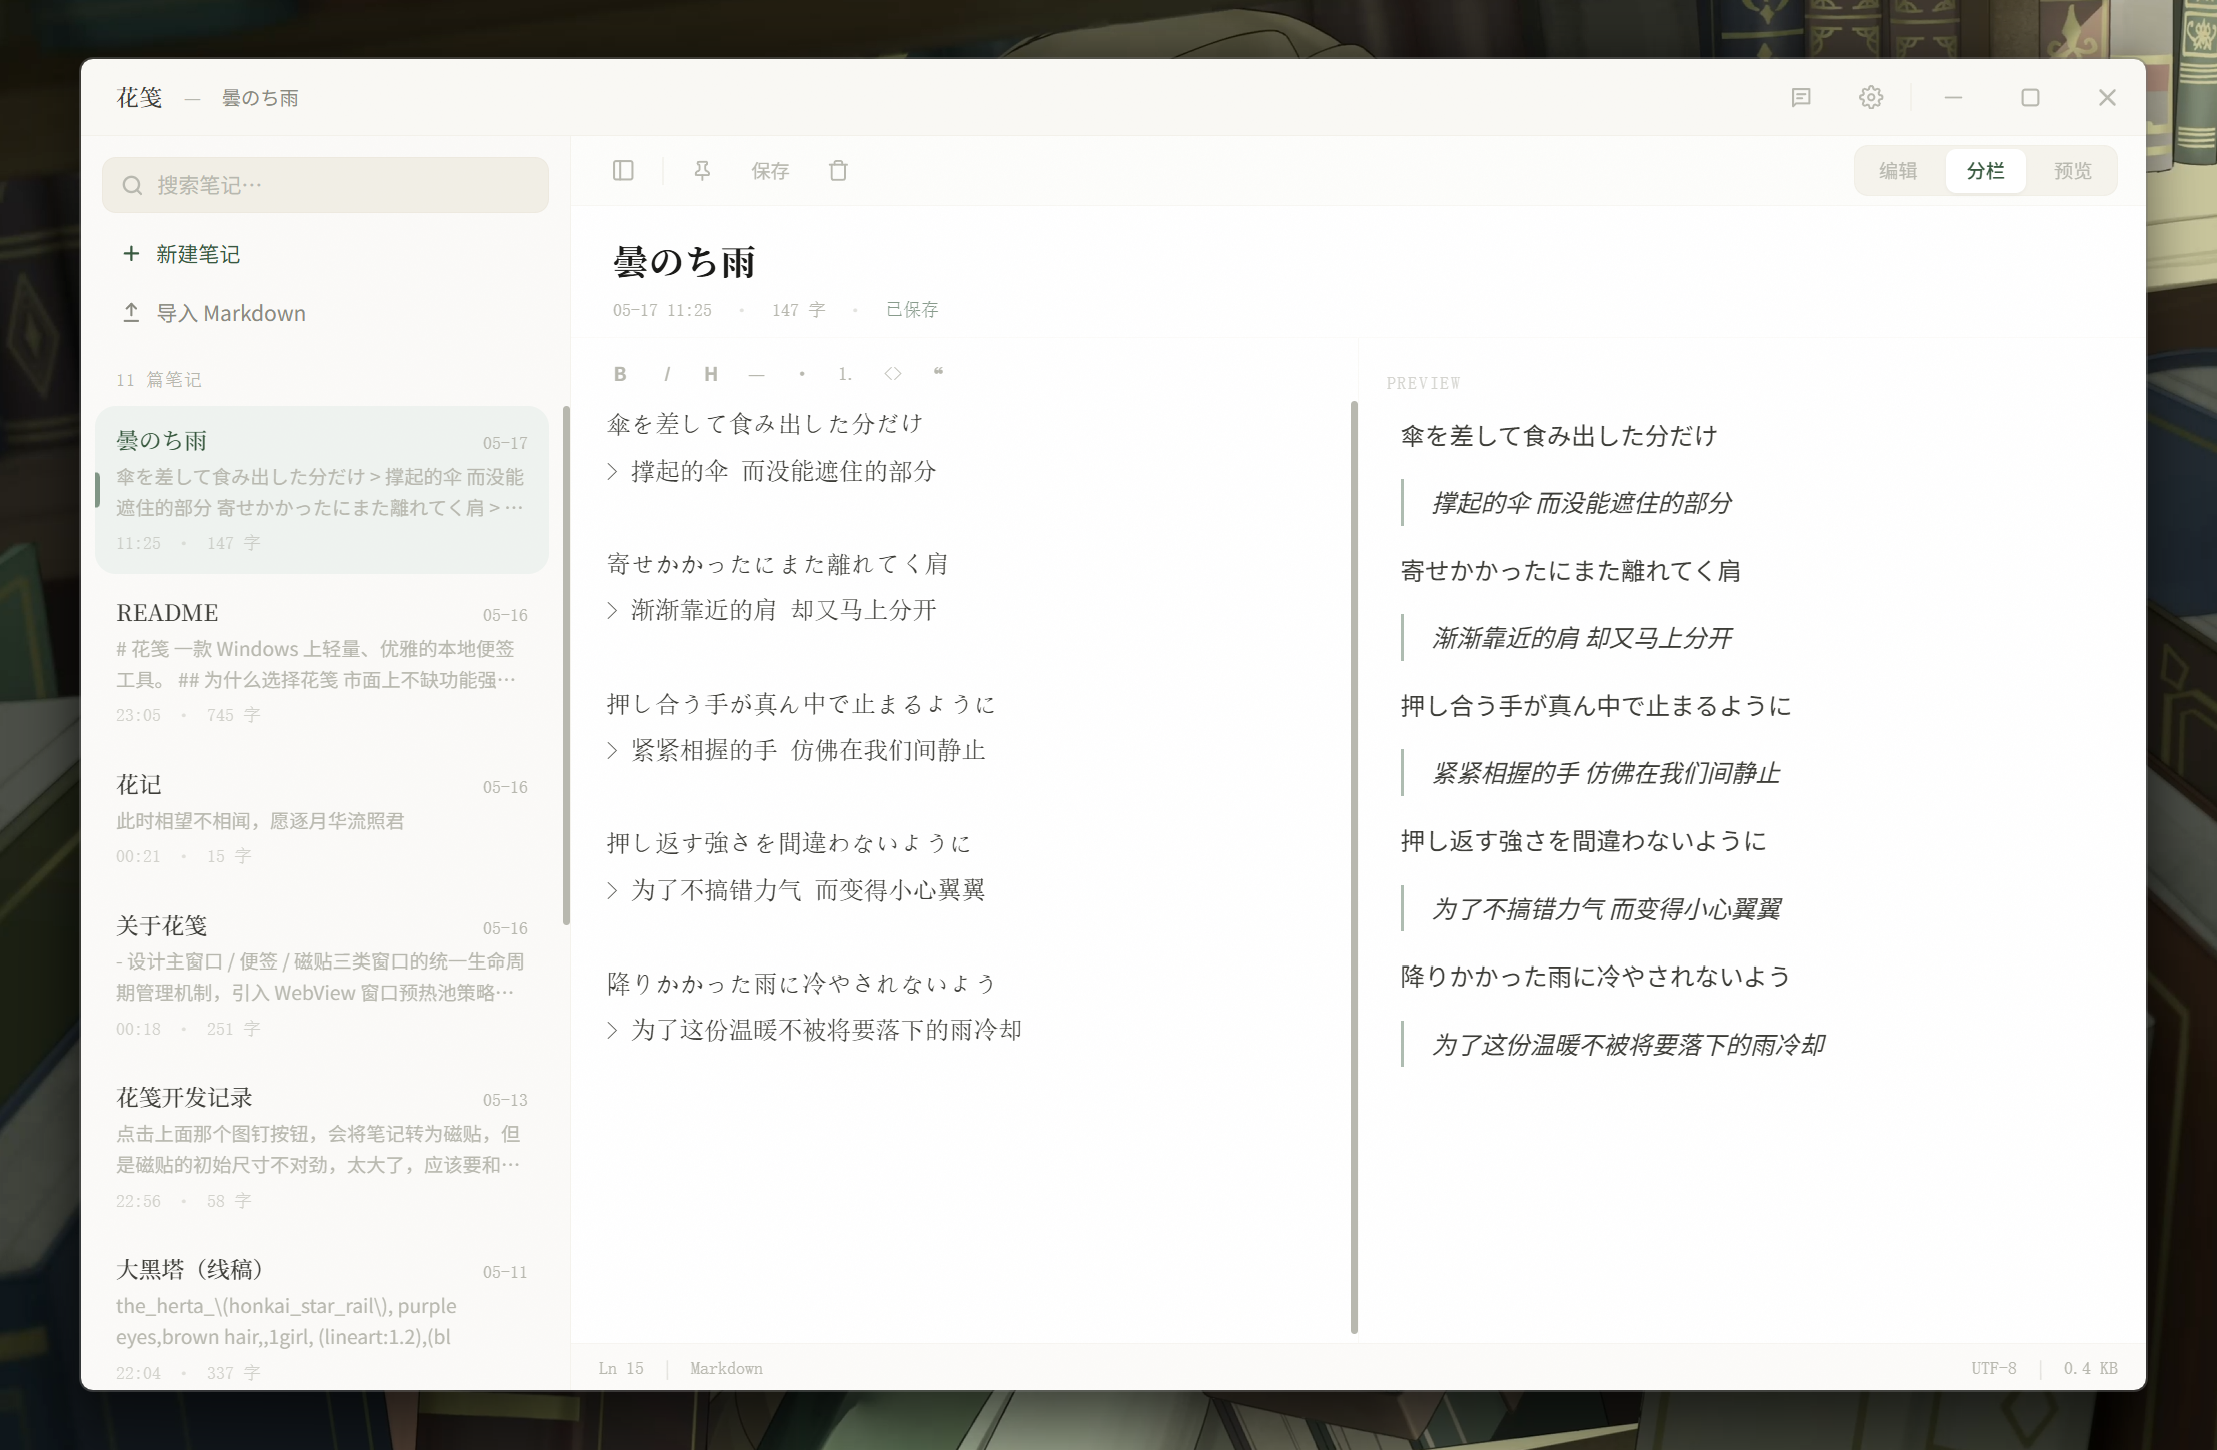
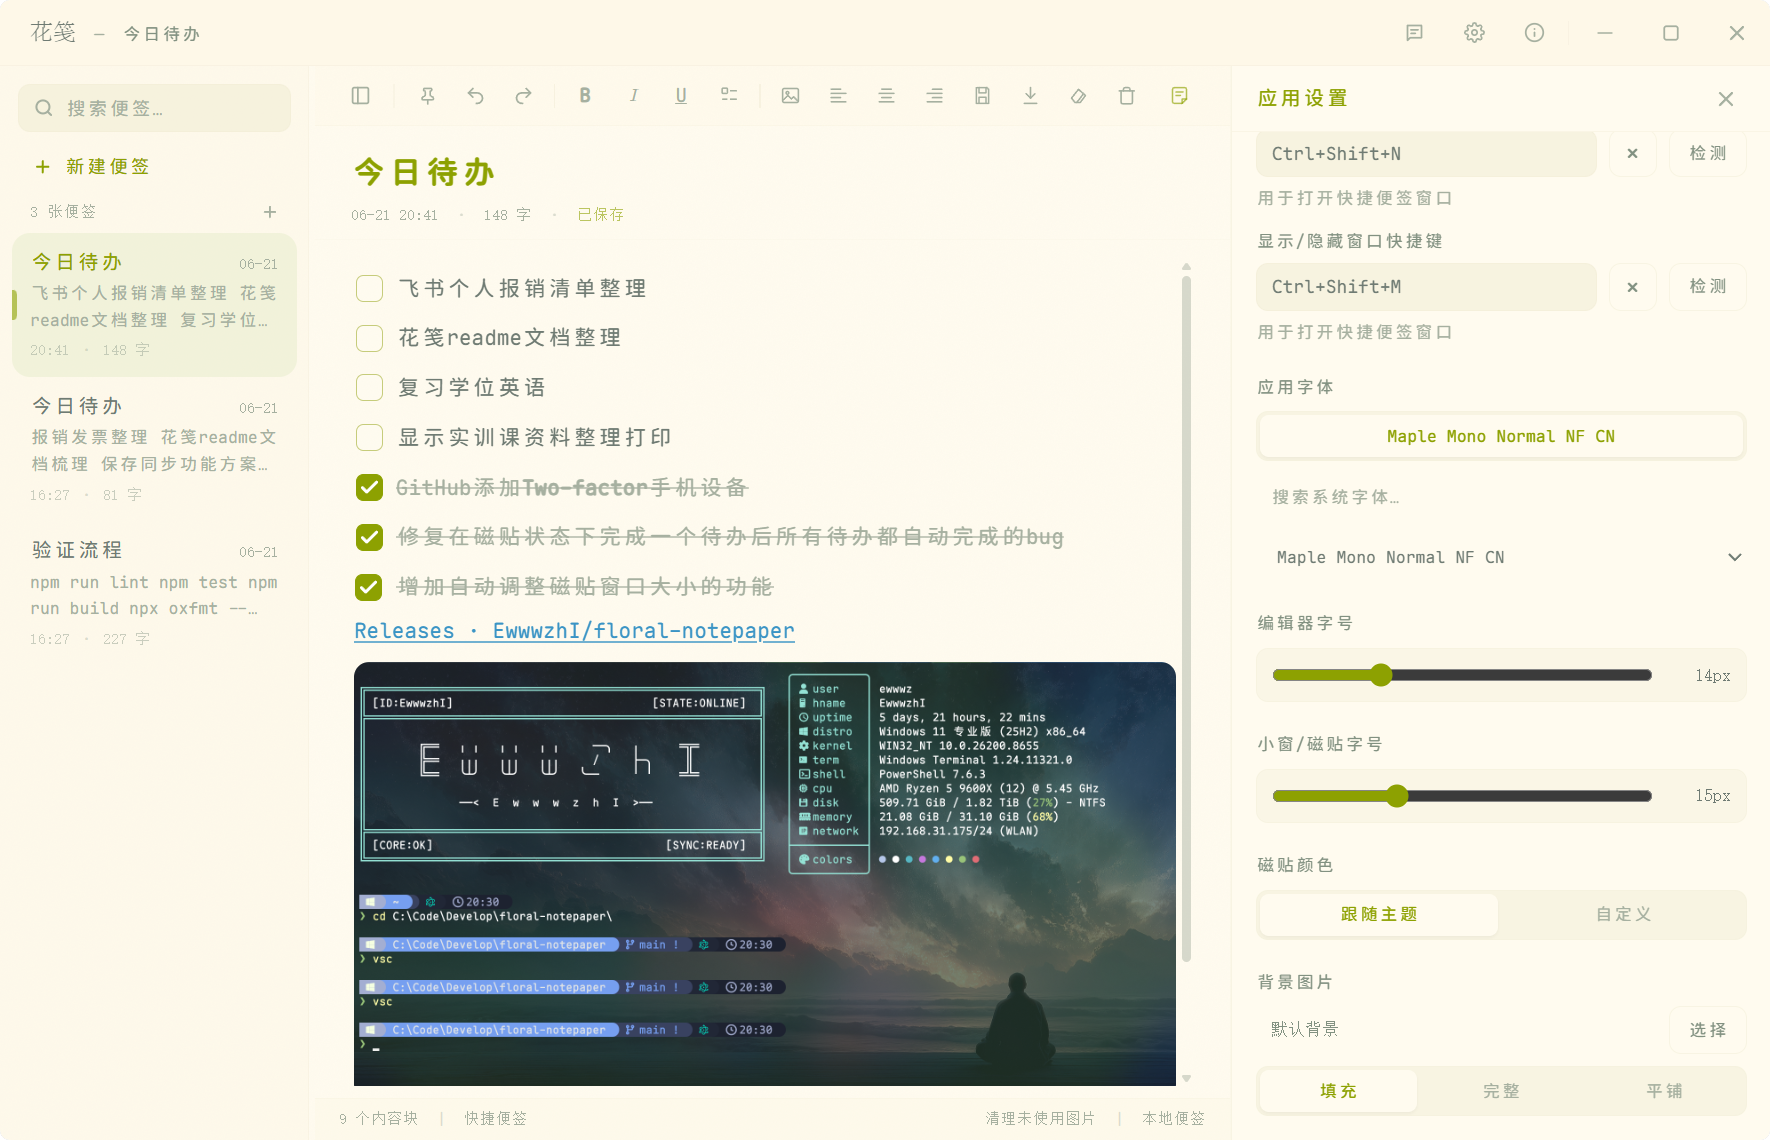
背景图片优化

diff --git a/src/components/SettingsPanel.test.tsx b/src/components/SettingsPanel.test.tsx
@@ -1,0 +1,75 @@
+// @vitest-environment jsdom
+
+import { renderToStaticMarkup } from "react-dom/server";
+import { describe, expect, test, vi } from "vitest";
+import type { AppConfig } from "../features/settings/types";
+import { SettingsPanel } from "./SettingsPanel";
+
+vi.mock("../features/settings/api", () => ({
+  checkGlobalShortcut: vi.fn(),
+  chooseBackgroundImage: vi.fn(),
+  listSystemFonts: vi.fn(() => Promise.resolve([])),
+}));
+
+function testConfig(backgroundImagePath = "C:\\data\\backgrounds\\background.png"): AppConfig {
+  return {
+    locale: "zh-CN",
+    dataDir: "C:\\data",
+    globalShortcut: "Ctrl+Shift+N",
+    closeToTray: true,
+    autostart: false,
+    defaultViewMode: "split",
+    noteAutoSave: true,
+    noteSurfaceAutoSave: true,
+    tileColor: "#fdf6e3",
+    tileColorMode: "system",
+    theme: "system",
+    fontSize: 14,
+    surfaceFontSize: 14,
+    noteFontFamily: "system",
+    tabIndentSize: 2,
+    externalFileAutoSave: true,
+    rememberSurfaceSize: true,
+    tileCtrlClose: true,
+    tileRenderMarkdown: false,
+    renderHtmlMarkdown: false,
+    splitScrollSync: true,
+    toggleVisibilityShortcut: "Ctrl+Shift+M",
+    openAtCursor: true,
+    backgroundImagePath,
+    backgroundFit: "cover",
+    backgroundDim: 0.25,
+    backgroundBlur: 6,
+  };
+}
+
+function renderSettings(config: AppConfig): string {
+  return renderToStaticMarkup(
+    <SettingsPanel
+      config={config}
+      onChange={vi.fn()}
+      onMigrateDataDir={vi.fn()}
+      onClose={vi.fn()}
+    />,
+  );
+}
+
+describe("SettingsPanel background controls", () => {
+  test("shows remove, transparency, and blur controls for a selected background", () => {
+    const markup = renderSettings(testConfig());
+
+    expect(markup).toContain("移除");
+    expect(markup).toContain("透明度");
+    expect(markup).toContain("25%");
+    expect(markup).toContain("模糊度");
+    expect(markup).toContain("6px");
+  });
+
+  test("hides background adjustments when no image is selected", () => {
+    const markup = renderSettings(testConfig(""));
+
+    expect(markup).not.toContain("移除");
+    expect(markup).not.toContain("透明度");
+    expect(markup).not.toContain("模糊度");
+  });
+});

diff --git a/src/components/SettingsPanel.tsx b/src/components/SettingsPanel.tsx
@@ -7,6 +7,11 @@ import {
   listSystemFonts,
 } from "../features/settings/api";
 import {
+  backgroundDimFromTransparency,
+  backgroundTransparencyPercent,
+  normalizeBackgroundBlur,
+} from "../features/settings/background";
+import {
   formatHeldKeys,
   hotkeyToConfigString,
   isValidGlobalShortcut,
@@ -314,12 +319,48 @@ export function SettingsPanel({ config, onChange, onMigrateDataDir, onClose }: S
             >
               {t("settings.background.choose", { defaultValue: "选择" })}
             </button>
+            {config.backgroundImagePath && (
+              <button
+                type="button"
+                onClick={() => {
+                  localStorage.removeItem("backgroundImageName");
+                  setConfigValue("backgroundImagePath", "");
+                }}
+                className="h-8 px-3 rounded-lg border border-paper-deep/45 text-[11px] text-ink-faint hover:text-red-400 hover:bg-danger-bg/70 transition-colors cursor-pointer"
+              >
+                {t("settings.background.clear", { defaultValue: "移除" })}
+              </button>
+            )}
           </div>
-          <SlidingButtonGroup
-            options={backgroundFits}
-            value={config.backgroundFit ?? "cover"}
-            onChange={(value: BackgroundFit) => setConfigValue("backgroundFit", value)}
-          />
+          {config.backgroundImagePath && (
+            <>
+              <SlidingButtonGroup
+                options={backgroundFits}
+                value={config.backgroundFit ?? "cover"}
+                onChange={(value: BackgroundFit) => setConfigValue("backgroundFit", value)}
+              />
+              <BackgroundRangeRow
+                label={t("settings.background.dim", { defaultValue: "透明度" })}
+                value={backgroundTransparencyPercent(config.backgroundDim)}
+                min={0}
+                max={100}
+                step={1}
+                format={(value) => `${value}%`}
+                onChange={(value) =>
+                  setConfigValue("backgroundDim", backgroundDimFromTransparency(value))
+                }
+              />
+              <BackgroundRangeRow
+                label={t("settings.background.blur", { defaultValue: "模糊度" })}
+                value={normalizeBackgroundBlur(config.backgroundBlur)}
+                min={0}
+                max={20}
+                step={1}
+                format={(value) => `${value}px`}
+                onChange={(value) => setConfigValue("backgroundBlur", value)}
+              />
+            </>
+          )}
         </SettingGroup>
       </div>
     </aside>
@@ -397,6 +438,26 @@ function RangeRow({
       <span className="w-10 text-right text-[11px] font-mono text-ink-soft tabular-nums">
         {format(value)}
       </span>
+    </div>
+  );
+}
+
+function BackgroundRangeRow({
+  label,
+  ...rangeProps
+}: {
+  label: string;
+  value: number;
+  min: number;
+  max: number;
+  step: number;
+  format: (value: number) => string;
+  onChange: (value: number) => void;
+}) {
+  return (
+    <div className="space-y-1.5">
+      <label className="block text-[11px] text-ink-faint">{label}</label>
+      <RangeRow {...rangeProps} />
     </div>
   );
 }

diff --git a/src/features/settings/background.test.ts b/src/features/settings/background.test.ts
@@ -1,0 +1,26 @@
+import { describe, expect, test } from "vitest";
+import {
+  backgroundDimFromTransparency,
+  backgroundTransparencyPercent,
+  normalizeBackgroundBlur,
+} from "./background";
+
+describe("background settings", () => {
+  test("maps the persisted dim value to a transparency percentage", () => {
+    expect(backgroundTransparencyPercent()).toBe(25);
+    expect(backgroundTransparencyPercent(0.6)).toBe(60);
+    expect(backgroundTransparencyPercent(2)).toBe(100);
+  });
+
+  test("maps the transparency slider back to a persisted dim value", () => {
+    expect(backgroundDimFromTransparency(35)).toBe(0.35);
+    expect(backgroundDimFromTransparency(-10)).toBe(0);
+    expect(backgroundDimFromTransparency(120)).toBe(1);
+  });
+
+  test("keeps background blur within the supported range", () => {
+    expect(normalizeBackgroundBlur()).toBe(0);
+    expect(normalizeBackgroundBlur(8)).toBe(8);
+    expect(normalizeBackgroundBlur(30)).toBe(20);
+  });
+});

diff --git a/src/features/settings/background.ts b/src/features/settings/background.ts
@@ -1,0 +1,20 @@
+const DEFAULT_BACKGROUND_DIM = 0.25;
+const MAX_BACKGROUND_BLUR = 20;
+
+function clamp(value: number, min: number, max: number): number {
+  return Math.min(max, Math.max(min, value));
+}
+
+export function backgroundTransparencyPercent(value?: number): number {
+  const dim = Number.isFinite(value) ? (value as number) : DEFAULT_BACKGROUND_DIM;
+  return Math.round(clamp(dim, 0, 1) * 100);
+}
+
+export function backgroundDimFromTransparency(value: number): number {
+  return clamp(value, 0, 100) / 100;
+}
+
+export function normalizeBackgroundBlur(value?: number): number {
+  const blur = Number.isFinite(value) ? (value as number) : 0;
+  return clamp(blur, 0, MAX_BACKGROUND_BLUR);
+}

diff --git a/src/components/BackgroundLayer.tsx b/src/components/BackgroundLayer.tsx
@@ -1,5 +1,6 @@
 import { convertFileSrc } from "@tauri-apps/api/core";
 import { useMemo } from "react";
+import { normalizeBackgroundBlur } from "../features/settings/background";
 import type { AppConfig } from "../features/settings/types";
 
 interface BackgroundLayerProps {
@@ -14,7 +15,7 @@ export function BackgroundLayer({ config }: BackgroundLayerProps) {
 
   const fit = config?.backgroundFit ?? "cover";
   const dim = Math.max(0, Math.min(1, config?.backgroundDim ?? 0.25));
-  const blur = Math.max(0, Math.min(20, config?.backgroundBlur ?? 0));
+  const blur = normalizeBackgroundBlur(config?.backgroundBlur);
   const scale = Math.max(0.5, Math.min(2, config?.backgroundScale ?? 1));
   const positionX = Math.max(0, Math.min(100, config?.backgroundPositionX ?? 50));
   const positionY = Math.max(0, Math.min(100, config?.backgroundPositionY ?? 50));

diff --git a/src-tauri/src/services/notes.rs b/src-tauri/src/services/notes.rs
@@ -674,6 +674,24 @@ impl NoteStore {
         Ok(config)
     }
 
+    pub fn remove_managed_background_file(&self, path: &str) {
+        let candidate = PathBuf::from(path.trim());
+        if !candidate.is_file() {
+            return;
+        }
+
+        let managed_dir = self.data_dir.join("backgrounds");
+        let (Ok(managed_dir), Ok(candidate)) =
+            (fs::canonicalize(managed_dir), fs::canonicalize(candidate))
+        else {
+            return;
+        };
+
+        if candidate.parent() == Some(managed_dir.as_path()) {
+            let _ = fs::remove_file(candidate);
+        }
+    }
+
     pub fn list_notes(&self) -> Result<Vec<NoteMetadata>, AppError> {
         self.ensure_storage()?;
         let mut metadata = self.load_metadata()?.notes;
@@ -2281,6 +2299,23 @@ mod tests {
         let loaded = store.load_config().expect("reload config");
         saved.data_dir = Some(store.data_dir().to_string_lossy().to_string());
         assert_eq!(loaded, saved);
+    }
+
+    #[test]
+    fn removes_only_background_files_managed_by_the_app() {
+        let store = test_store("managed-background");
+        let managed_dir = store.data_dir().join("backgrounds");
+        fs::create_dir_all(&managed_dir).expect("create backgrounds dir");
+        let managed = managed_dir.join("background.png");
+        let external = store.data_dir().join("external.png");
+        fs::write(&managed, b"managed").expect("write managed background");
+        fs::write(&external, b"external").expect("write external background");
+
+        store.remove_managed_background_file(managed.to_string_lossy().as_ref());
+        store.remove_managed_background_file(external.to_string_lossy().as_ref());
+
+        assert!(!managed.exists());
+        assert!(external.exists());
     }
 
     #[test]

diff --git a/src-tauri/src/lib.rs b/src-tauri/src/lib.rs
@@ -373,14 +373,6 @@ fn copy_background_image(_app: AppHandle, source_path: String) -> Result<String,
     let dir = store.data_dir().join("backgrounds");
     fs::create_dir_all(&dir)?;
 
-    let old_config = store.load_config()?;
-    if !old_config.background_image_path.is_empty() {
-        let old_path = PathBuf::from(&old_config.background_image_path);
-        if old_path.starts_with(&dir) && old_path.is_file() {
-            let _ = fs::remove_file(&old_path);
-        }
-    }
-
     let ext = source
         .extension()
         .and_then(|value| value.to_str())
@@ -411,6 +403,9 @@ fn config_save(app: AppHandle, config: AppConfig) -> Result<AppConfig, AppError>
         }
     })?;
     let saved = store.save_config(config)?;
+    if previous.background_image_path != saved.background_image_path {
+        store.remove_managed_background_file(&previous.background_image_path);
+    }
     if let Err(error) = desktop::refresh_shell_state(&app, &saved) {
         eprintln!("failed to refresh desktop shell state: {error}");
     }

diff --git a/README.md b/README.md
@@ -18,25 +18,34 @@
 
 <!-- markdownlint-restore -->
 
-## 功能
+## 便签编辑
 
-- 文字、待办、图片、加粗、斜体和下划线编辑
-- 快捷键唤出便签小窗，继续编辑已有便签
-- 磁贴置顶、非置顶切换、待办勾选与快速返回编辑
-- 自动识别网址、域名和邮箱链接
-- 导出 Markdown，并同步导出关联图片
-- Everforest 浅色、深色及跟随系统主题
-- 数据完全保存在本地
+- 支持文字、标题、待办事项和图片等内容。
+- 提供加粗、斜体、下划线、撤销与重做等常用编辑能力。
+- 支持图片粘贴、导入和对齐调整。
+- 自动识别网址、域名和邮箱地址，可直接打开对应链接。
+- 支持自动保存，并显示字数、内容块数量及保存状态。
 
 ![主窗口截图](Docs/images/主窗口截图.png)
 
-## 快捷便签与磁贴
+## 快捷便签与桌面磁贴
 
-通过托盘或全局快捷键（默认 `Ctrl+Shift+N`）打开快捷便签。
+- 可通过托盘或全局快捷键（默认 `Ctrl+Space`）快速打开独立便签小窗，支持多开。
+- 支持同时打开多个快捷便签，并可继续编辑已有内容。
+- 便签可转换为常驻桌面的磁贴，支持置顶切换、待办勾选和快速返回编辑。
+- 磁贴会根据内容自动调整高度，同时保留手动调整窗口大小的能力。
+- 支持记住小窗尺寸，以及在鼠标所在位置附近打开快捷便签。
 
-![小窗多开示例](Docs/images/小窗多开示例.gif)
+![小窗口多开示例](Docs/images/小窗口多开示例.png)
 
-![磁贴示例](Docs/images/AI绘画截图.png)
+## 外观与个性化
+
+- 提供 Everforest 浅色、深色和跟随系统三种主题模式。
+- 支持选择系统字体，并分别调整主编辑器和快捷便签字号。
+- 支持自定义磁贴颜色。
+- 支持设置背景图片及填充、完整显示和平铺模式。
+
+![不同颜色风格示例](Docs/images/不同颜色风格.png)
 
 ## 保存与导出
 
@@ -51,8 +60,8 @@
 
 | 类型   | Release 文件                            |
 | ------ | --------------------------------------- |
-| 安装版 | `floral-notepaper_版本号_x64-setup.exe` |
 | 便携版 | `floral-notepaper_版本号.exe`           |
+| 安装版 | `floral-notepaper_版本号_x64-setup.exe` |
 
 ## 从源码构建
 